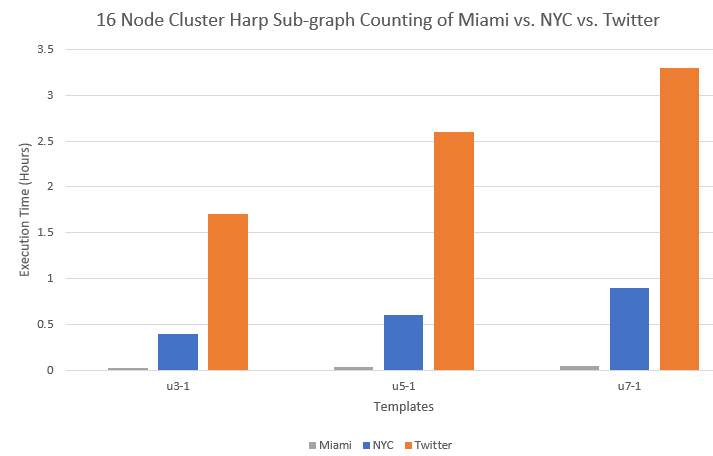
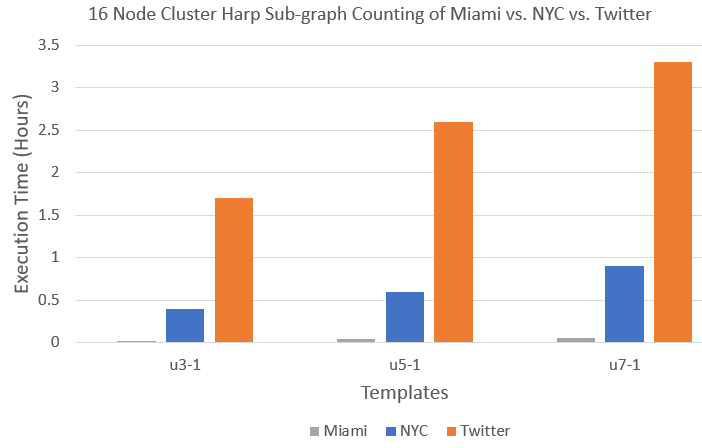
Increased label size, and decrease graph size of sub-graph counting tutorial results chart

diff --git a/website/content/docs/applications/sahad.md b/website/content/docs/applications/sahad.md
@@ -69,7 +69,7 @@ In contrast, the Twitter [dataset](http://an.kaist.ac.kr/traces/WWW2010.html) is
 <img src="/img/sahad/templates-illustration.png" width="40%">
 
 ## Results
-<img src="/img/sahad/miaminyctwitter-experiment-illustration.png" width="90%">
+<img src="/img/sahad/miaminyctwitter-experiment-illustration.png" width="70%">
 
 # Run Subgraph Counting Example
 
